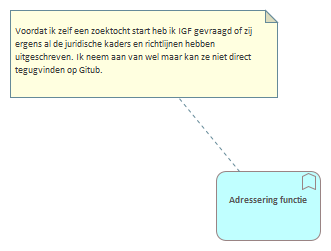
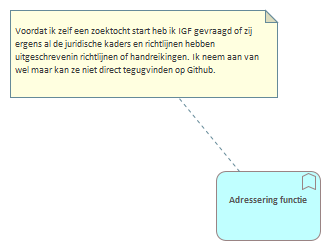
update

Changed region(s): [[0.0302, 0.1952, 0.7855, 0.3068]]

diff --git a/docs/EARoot/EA1/EA1/EA1/EA227.htm b/docs/EARoot/EA1/EA1/EA1/EA227.htm
@@ -102,7 +102,7 @@
 	<!-- <span class="ObjectTitle">  : Public   Note</span> -->
 	<!-- CUSTOM -->
 	<span class="ObjectTitle"></span>
-	<div class="ObjectDetailsNotes">Voordat ik zelf een zoektocht start heb ik IGF gevraagd of zij ergens al de juridische kaders en richtlijnen hebben uitgeschreven. Ik neem aan van wel maar kan ze niet direct tegugvinden op Gitub.&lt;br/&gt;&lt;br/&gt;</div>
+	<div class="ObjectDetailsNotes">Voordat ik zelf een zoektocht start heb ik IGF gevraagd of zij ergens al de juridische kaders en richtlijnen hebben uitgeschrevenin richtlijnen of handreikingen. Ik neem aan van wel maar kan ze niet direct tegugvinden op Github.&lt;br/&gt;&lt;br/&gt;</div>
 
 	<hr>
 	<!-- END CUSTOM -->
@@ -114,7 +114,7 @@
 		</tr>
 		<tr>
 			<td class="ObjectDetailsTopic">Modified:</td>
-			<td class="ObjectDetailsValue">26-9-2025 09:15:51</td>
+			<td class="ObjectDetailsValue">26-9-2025 11:19:14</td>
 		</tr>
 		<tr style="height: 10px"><td colspan="2"></td></tr>
 		<tr>
@@ -177,7 +177,7 @@
 		</tr>
 		<tr>
 			<td class="ObjectDetailsTopic">Gewijzigd:</td>
-			<td class="ObjectDetailsValue">26-9-2025 09:15:51</td>
+			<td class="ObjectDetailsValue">26-9-2025 11:19:14</td>
 		</tr>
         <tr>
 			<td class="ObjectDetailsTopic">Versie:</td>
@@ -200,7 +200,7 @@
 	</table> -->
 	<hr>
 	<!-- END CUSTOM -->
-	<!-- <div class="ObjectDetailsNotes">Voordat ik zelf een zoektocht start heb ik IGF gevraagd of zij ergens al de juridische kaders en richtlijnen hebben uitgeschreven. Ik neem aan van wel maar kan ze niet direct tegugvinden op Gitub.&lt;br/&gt;&lt;br/&gt;</div>
+	<!-- <div class="ObjectDetailsNotes">Voordat ik zelf een zoektocht start heb ik IGF gevraagd of zij ergens al de juridische kaders en richtlijnen hebben uitgeschrevenin richtlijnen of handreikingen. Ik neem aan van wel maar kan ze niet direct tegugvinden op Github.&lt;br/&gt;&lt;br/&gt;</div>
  --> </div>
  </td>
 				</tr>
